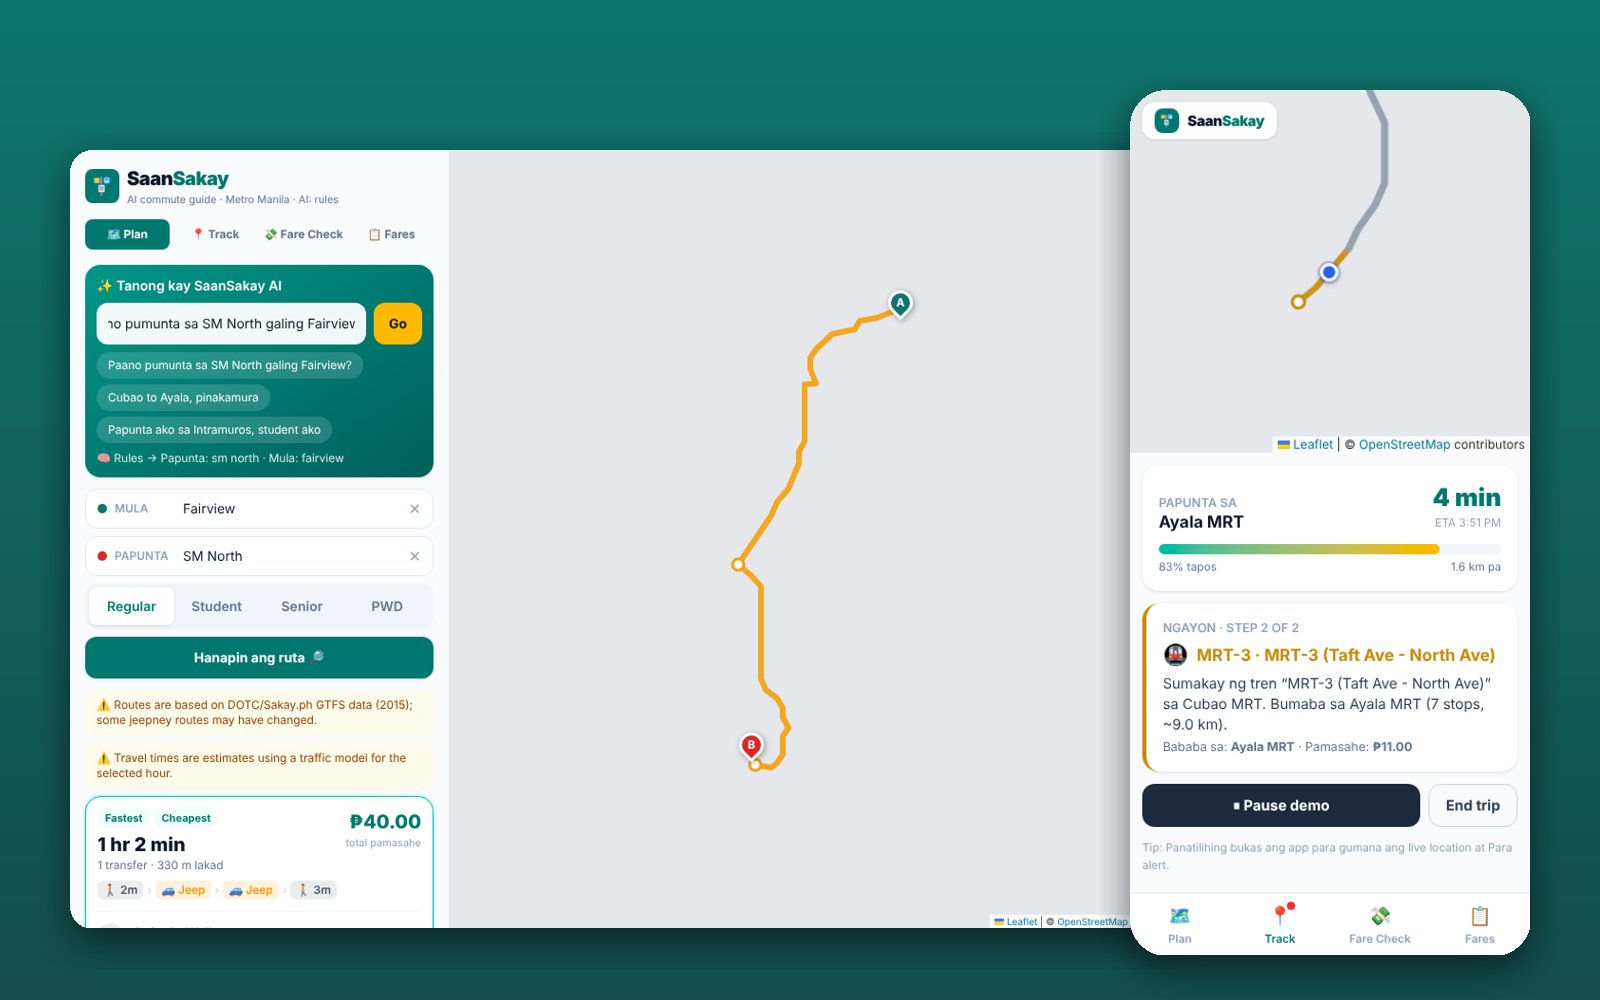
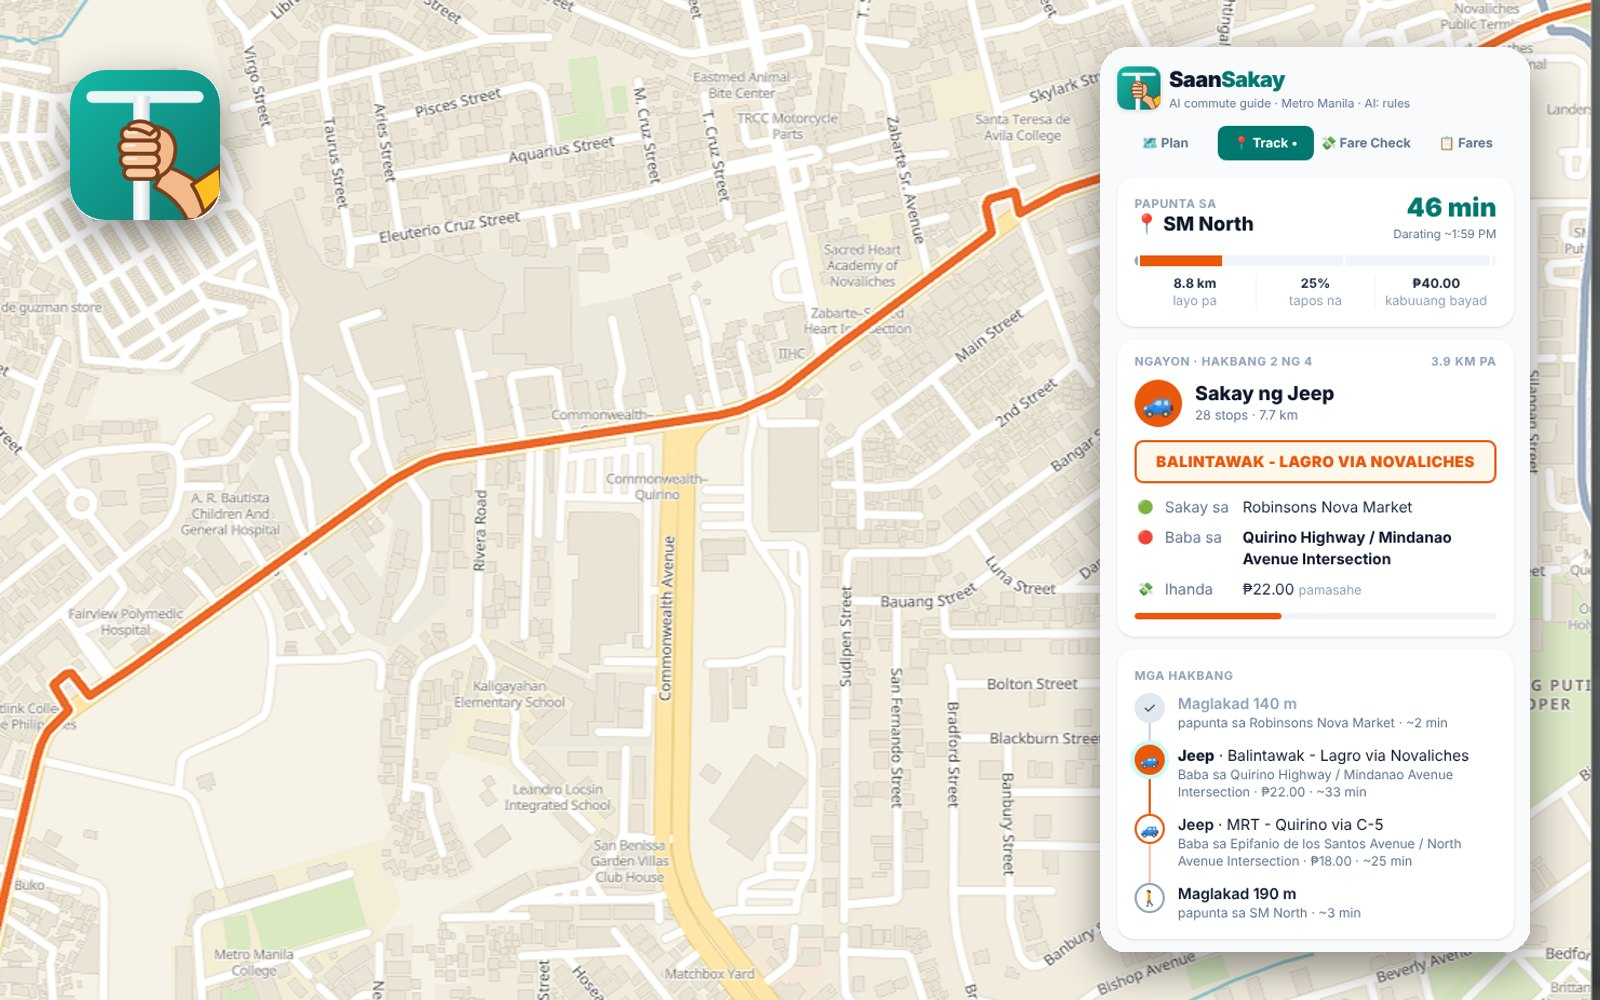
Update SaanSakay project: new screenshot and features
Claude-Session: https://claude.ai/code/session_01Py1rjZuN1Rv5tKQWMZTNHn

diff --git a/projects.html b/projects.html
@@ -133,8 +133,8 @@ main [style*="background: var(--c121212)"]:hover{border-color:var(--c3a3a3a)}
 <div style="padding: 18px; display: flex; flex-direction: column; gap: 10px">
 <div style="display: flex; justify-content: space-between; gap: 12px; font-size: 13px; letter-spacing: 1px; color: var(--c858585)"><span>AI · TRANSPORT · WEB APP</span><span>2026</span></div>
 <h3 class="pname" style="margin: 0; font-size: 20px; font-weight: 400; color: var(--ce5e5e5)">SaanSakay</h3>
-<p style="margin: 0; color: var(--ca3a3a3)">AI commute guide for Metro Manila. Ask in Taglish and a custom routing engine plans jeep, bus, LRT and MRT trips across 1,700+ routes, with official LTFRB fares and student, senior and PWD discounts. Includes an overcharge checker, live GPS tracking with a "Para" alert before your stop, and arrival estimates that learn from finished trips.</p>
-<div style="display: flex; flex-wrap: wrap; gap: 6px"><span style="background: var(--c262626); padding: 0 8px; border-radius: 3px; font-size: 14px; color: var(--ccfcfcf)">Python</span><span style="background: var(--c262626); padding: 0 8px; border-radius: 3px; font-size: 14px; color: var(--ccfcfcf)">FastAPI</span><span style="background: var(--c262626); padding: 0 8px; border-radius: 3px; font-size: 14px; color: var(--ccfcfcf)">React</span><span style="background: var(--c262626); padding: 0 8px; border-radius: 3px; font-size: 14px; color: var(--ccfcfcf)">Leaflet</span><span style="background: var(--c262626); padding: 0 8px; border-radius: 3px; font-size: 14px; color: var(--ccfcfcf)">Gemini AI</span><span style="background: var(--c262626); padding: 0 8px; border-radius: 3px; font-size: 14px; color: var(--ccfcfcf)">GTFS</span></div>
+<p style="margin: 0; color: var(--ca3a3a3)">AI commute guide for Metro Manila. Ask in Taglish and a custom multimodal routing engine (1,700+ jeep, bus, LRT and MRT routes) returns the fastest, cheapest and fewest-transfer options with official LTFRB fares and student, senior and PWD discounts. Routes are snapped to real roads, and live tracking glides along them with a 1 km "Para" countdown before your stop. It also has an overcharge checker and ETAs that learn from finished trips, on a custom vector map with no paid APIs.</p>
+<div style="display: flex; flex-wrap: wrap; gap: 6px"><span style="background: var(--c262626); padding: 0 8px; border-radius: 3px; font-size: 14px; color: var(--ccfcfcf)">Python</span><span style="background: var(--c262626); padding: 0 8px; border-radius: 3px; font-size: 14px; color: var(--ccfcfcf)">FastAPI</span><span style="background: var(--c262626); padding: 0 8px; border-radius: 3px; font-size: 14px; color: var(--ccfcfcf)">React</span><span style="background: var(--c262626); padding: 0 8px; border-radius: 3px; font-size: 14px; color: var(--ccfcfcf)">Leaflet</span><span style="background: var(--c262626); padding: 0 8px; border-radius: 3px; font-size: 14px; color: var(--ccfcfcf)">Gemini AI</span><span style="background: var(--c262626); padding: 0 8px; border-radius: 3px; font-size: 14px; color: var(--ccfcfcf)">GTFS</span><span style="background: var(--c262626); padding: 0 8px; border-radius: 3px; font-size: 14px; color: var(--ccfcfcf)">MapLibre</span><span style="background: var(--c262626); padding: 0 8px; border-radius: 3px; font-size: 14px; color: var(--ccfcfcf)">OSRM</span></div>
 <div style="display: flex; gap: 18px; padding-top: 6px; font-size: 14px"><a href="https://saansakay.onrender.com" target="_blank" rel="noopener">live demo ↗</a><a href="https://github.com/ashweak/saansakay" target="_blank" rel="noopener">github ↗</a></div>
 </div>
 </article>

diff --git a/index.html b/index.html
@@ -210,7 +210,7 @@ main [style*="background: var(--c121212)"]:hover{border-color:var(--c3a3a3a)}
 <img src="assets/img/project-saansakay.jpg" alt="SaanSakay screenshot" loading="lazy" style="flex: 0 0 auto; width: 110px; height: 72px; object-fit: cover; object-position: top; background: var(--c262626)">
 <div style="flex: 1; min-width: 0; display: flex; flex-direction: column; gap: 6px">
 <div style="display: flex; justify-content: space-between; gap: 12px"><h3 style="margin: 0; font-size: 18px; font-weight: 400; color: var(--ce0e0e0)">SaanSakay</h3><a href="https://saansakay.onrender.com" target="_blank" rel="noopener" aria-label="Open SaanSakay live demo">↗</a></div>
-<p style="margin: 0; color: var(--ca3a3a3)">AI commute guide for Metro Manila: Taglish trip search, official fares, an overcharge checker and live tracking with a "Para" alert.</p>
+<p style="margin: 0; color: var(--ca3a3a3)">AI commute guide for Metro Manila: Taglish trip search, road-snapped jeep/bus/train routes, official LTFRB fares and live tracking with a 1 km "Para" countdown.</p>
 <div style="display: flex; flex-wrap: wrap; gap: 6px"><span style="background: var(--c262626); padding: 0 7px; border-radius: 3px; font-size: 13px; color: var(--ccfcfcf)">Python</span><span style="background: var(--c262626); padding: 0 7px; border-radius: 3px; font-size: 13px; color: var(--ccfcfcf)">FastAPI</span><span style="background: var(--c262626); padding: 0 7px; border-radius: 3px; font-size: 13px; color: var(--ccfcfcf)">React</span><span style="background: var(--c262626); padding: 0 7px; border-radius: 3px; font-size: 13px; color: var(--ccfcfcf)">Gemini AI</span></div>
 
 <div style="display: flex; gap: 16px; font-size: 14px"><a href="https://saansakay.onrender.com" target="_blank" rel="noopener">live demo ↗</a><a href="https://github.com/ashweak/saansakay" target="_blank" rel="noopener">github ↗</a></div></div>
